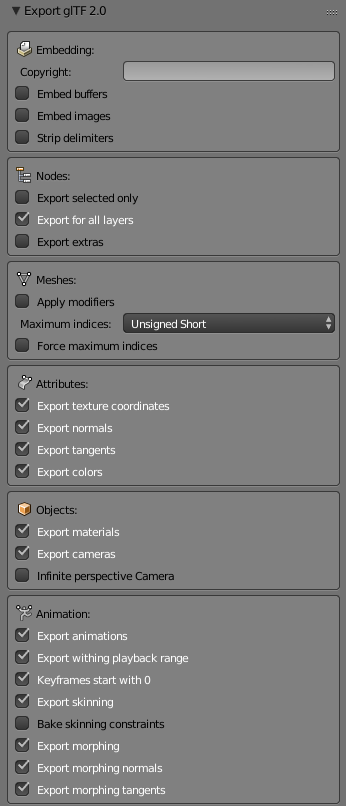
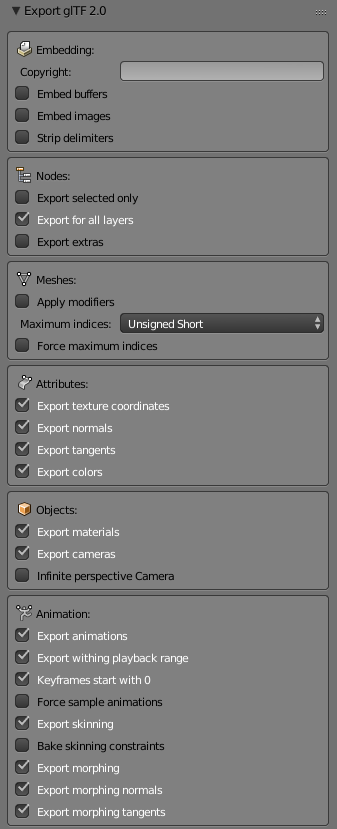
Updated documentation.

Changed region(s): [[0.0, 0.0, 1.0, 1.0], [0.9792, 0.7444, 1.0, 0.9926], [0.4748, 0.7754, 0.5638, 0.8375]]

diff --git a/docs/user.md b/docs/user.md
@@ -147,6 +147,10 @@ By default, all animations are exported within the playback range. If disabled, 
 
 By default, all keyframes are modified that the first keyframe starts with 0. If disabled, the keyframes keep their original value. This property is only visible, if export animations is enabled.
 
+#### Force sample animations
+
+By default and if possible, only the keyframes of an animation are exported. However, mainly because of the non-quaternion to quaternion conversion, animations need to be sampled for proper animating the scene. This property is only visible, if export animations is enabled.
+
 #### Export current frame
 
 If the animations are not exported, this option gets visible. By default, the current frame is exported. If not, frame `0` is exported.
